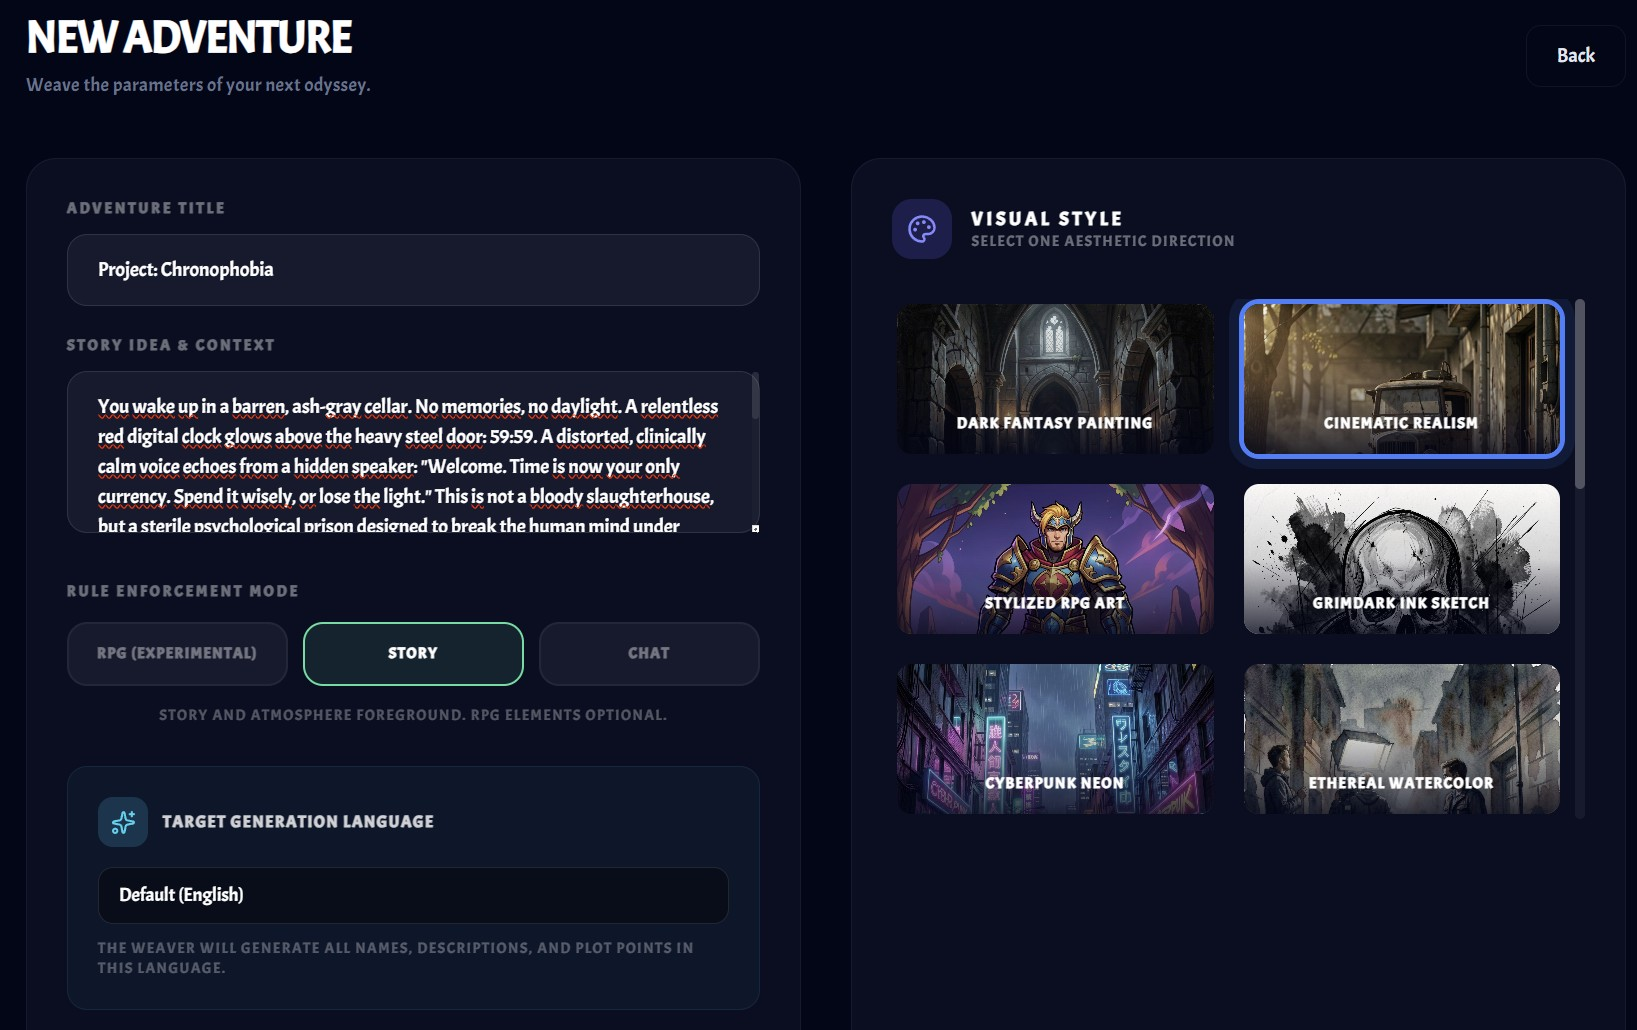
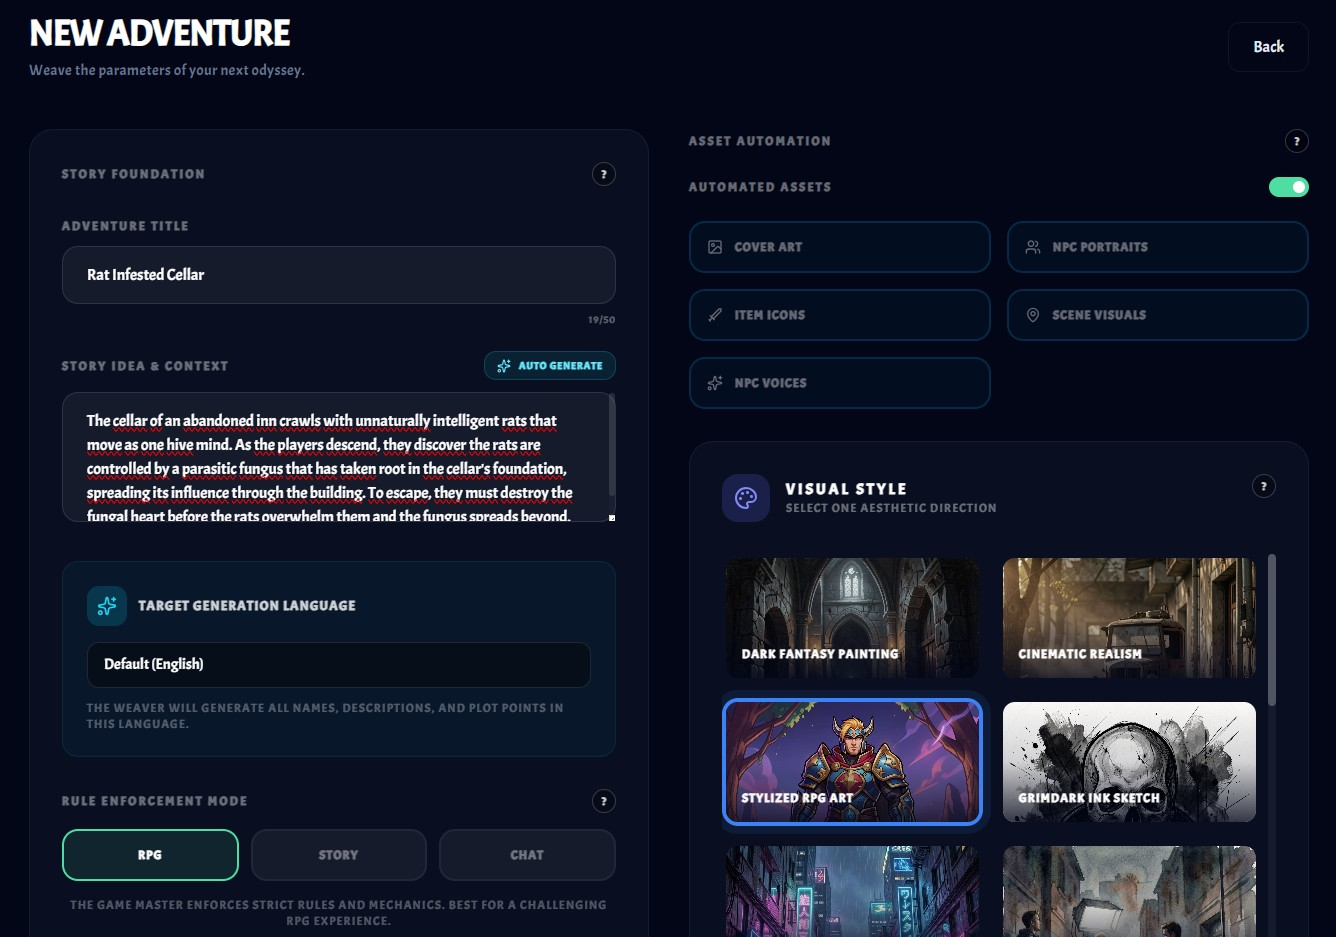
Add loot dialog screenshot to documentation

diff --git a/backend/api/routes/config_api.py b/backend/api/routes/config_api.py
@@ -39,7 +39,12 @@ from backend.core.tts_voices import GOOGLE_TTS_VOICE_CATALOG, GOOGLE_TTS_VOICE_L
 from backend.engine.media_engine import MediaEngine
 from backend.engine.tts_engine import TTSEngine, TTSModelSwitchSuggestionError
 from backend.models.user import User
-from backend.utils.path_security import ensure_within_data_dir, safe_data_path, sanitize_path_component
+from backend.utils.path_security import (
+    ensure_within_base_dir,
+    ensure_within_data_dir,
+    safe_data_path,
+    sanitize_path_component,
+)
 
 router = APIRouter(prefix="/settings", tags=["Settings"])
 print(f"DEBUG: Loading config_api module, router prefix: {router.prefix}")
@@ -49,6 +54,11 @@ DEFAULT_COMPLEX_MAX_TOKENS = 24576
 DEFAULT_GENERATOR_MAX_TOKENS = 32768
 _SAFE_IMAGE_EXTENSIONS = {"png", "jpg", "jpeg", "webp"}
 _ALLOWED_CATALOG_TYPES = {"styles", "tones"}
+_CATALOG_EXT_BY_CONTENT_TYPE = {
+    "image/png": "png",
+    "image/jpeg": "jpg",
+    "image/webp": "webp",
+}
 
 
 async def _resolve_global_settings_owner(db: AsyncSession, fallback_user: User) -> User:
@@ -116,6 +126,11 @@ def _sanitize_image_extension(filename: Optional[str]) -> str:
         return "png"
     ext = filename.rsplit(".", 1)[-1].strip().lower()
     return ext if ext in _SAFE_IMAGE_EXTENSIONS else "png"
+
+
+def _extension_from_content_type(content_type: Optional[str]) -> str:
+    """Resolve a safe image extension from content type with png fallback."""
+    return _CATALOG_EXT_BY_CONTENT_TYPE.get((content_type or "").strip().lower(), "png")
 
 
 def _route_error_response(operation: str, message: str, exc: Exception) -> dict[str, str]:
@@ -1173,9 +1188,12 @@ async def upload_catalog_image(
     _ = db
     _ = current_user
     try:
-        filepath = _build_catalog_upload_path(catalog_type, target_id, file.filename)
+        safe_ext = _extension_from_content_type(file.content_type)
+        filepath = _build_catalog_upload_path(catalog_type, target_id, f"upload.{safe_ext}")
 
         safe_filepath = _ensure_within_data_dir(filepath)
+        safe_parent_dir = _ensure_within_data_dir(os.path.dirname(safe_filepath))
+        safe_filepath = ensure_within_base_dir(safe_filepath, safe_parent_dir)
         with open(safe_filepath, "wb") as f:
             f.write(await file.read())
 

diff --git a/backend/api/routes/adventures/gameplay.py b/backend/api/routes/adventures/gameplay.py
@@ -155,18 +155,26 @@ async def post_chat_message(
                     f"data: {json.dumps({'detail': 'Unable to process this turn.'})}\n\n"
                 )
 
+        try:
+            turn_stream = manager.process_turn(
+                payload.content,
+                auto_visualize=payload.auto_visualize,
+                language=payload.language,
+            )
+        except Exception:
+            logger.exception("Failed to initialize chat stream for session %s", game_id)
+            raise HTTPException(status_code=500, detail="Unable to process this turn.")
+
         return StreamingResponse(
-            _stream_with_turn_id(
-                manager.process_turn(payload.content, auto_visualize=payload.auto_visualize, language=payload.language)
-            ),
+            _stream_with_turn_id(turn_stream),
             media_type="text/event-stream",
             headers={"X-Taleweaver-Turn-Id": turn_id},
         )
     except HTTPException:
         raise
-    except Exception as exc:
+    except Exception:
         logger.exception("Failed to start chat turn for session %s", game_id)
-        raise HTTPException(status_code=500, detail="Unable to process this turn.") from exc
+        raise HTTPException(status_code=500, detail="Unable to process this turn.")
 
 
 @router.post("/{game_id}/agent/turn")

diff --git a/backend/engine/media_engine.py b/backend/engine/media_engine.py
@@ -28,8 +28,10 @@ from backend.utils.image_generator import (
     PlaceholderImageGenerator,
 )
 from backend.utils.path_security import (
+    ensure_within_base_dir,
     ensure_within_data_dir as ensure_within_data_dir_shared,
     local_path_to_data_url,
+    sanitize_relative_segment,
     sanitize_path_component as sanitize_path_component_shared,
 )
 from backend.utils.svg_generator import SVGPlaceholderGenerator
@@ -158,6 +160,10 @@ def _write_binary_file(filepath: str, payload: bytes) -> None:
     if not parent_dir:
         raise ValueError("Invalid filepath: missing parent directory.")
     safe_parent_dir = _ensure_within_data_dir(parent_dir)
+    safe_filename = sanitize_relative_segment(os.path.basename(safe_filepath))
+    if not safe_filename:
+        raise ValueError("Invalid filepath: invalid filename.")
+    safe_filepath = ensure_within_base_dir(os.path.join(safe_parent_dir, safe_filename), safe_parent_dir)
     os.makedirs(safe_parent_dir, exist_ok=True)
     with open(safe_filepath, "wb") as file_handle:
         file_handle.write(payload)
@@ -263,8 +269,13 @@ class MediaEngine:
         """Creates a thumbnail for the given image file if it doesn't exist."""
         try:
             safe_filepath = _ensure_within_data_dir(filepath)
-            base, ext = os.path.splitext(safe_filepath)
-            thumb_path = _ensure_within_data_dir(f"{base}_thumb{ext}")
+            source_stem, ext = os.path.splitext(os.path.basename(safe_filepath))
+            safe_thumb_name = sanitize_relative_segment(f"{source_stem}_thumb{ext}")
+            if not safe_thumb_name:
+                raise ValueError("Invalid thumbnail filename.")
+            thumb_path = _ensure_within_data_dir(
+                os.path.join(os.path.dirname(safe_filepath), safe_thumb_name)
+            )
             
             # Avoid re-generating if it already exists
             if os.path.exists(thumb_path):

diff --git a/backend/api/routes/adventures/assets.py b/backend/api/routes/adventures/assets.py
@@ -20,7 +20,12 @@ from backend.core.style_catalog import resolve_style_instruction, resolve_tone_i
 from backend.engine.media_engine import MediaEngine
 from backend.models.adventure_template import AdventureTemplate
 from backend.models.user import User
-from backend.utils.path_security import ensure_within_data_dir, safe_data_path, sanitize_path_component
+from backend.utils.path_security import (
+    ensure_within_base_dir,
+    ensure_within_data_dir,
+    safe_data_path,
+    sanitize_path_component,
+)
 from typing import Any
 from io import BytesIO
 from PIL import Image
@@ -133,14 +138,15 @@ def _build_uploaded_visual_path(
         storage_path = base_storage_path
         filename = f"cover_{uuid.uuid4().hex}.{safe_file_ext}"
     else:
-        storage_path = ensure_within_data_dir(os.path.join(base_storage_path, safe_target_type))
+        storage_path = safe_data_path("adventures", "library", safe_template_id, "visuals", safe_target_type)
         safe_token = _sanitize_filename_token(trusted_target_token)
         filename_prefix = safe_token or safe_target_type
         filename = f"{filename_prefix}_{uuid.uuid4().hex}.{safe_file_ext}"
 
     safe_storage_path = ensure_within_data_dir(storage_path)
     os.makedirs(safe_storage_path, exist_ok=True)
-    return ensure_within_data_dir(os.path.join(safe_storage_path, filename))
+    candidate_path = ensure_within_data_dir(os.path.join(safe_storage_path, filename))
+    return ensure_within_base_dir(candidate_path, safe_storage_path)
 
 class RegenerateVisualRequest(BaseModel):
     target_type: Literal["cover", "scene", "npc", "object", "protagonist"]
@@ -449,6 +455,8 @@ async def upload_visual(
             _extension_from_content_type(file.content_type),
             trusted_target_token=trusted_target_token,
         )
+        safe_parent_dir = ensure_within_data_dir(os.path.dirname(full_path))
+        full_path = ensure_within_base_dir(full_path, safe_parent_dir)
         with open(full_path, "wb") as f:
             f.write(content)
 

diff --git a/backend/engine/world_generator.py b/backend/engine/world_generator.py
@@ -21,8 +21,10 @@ from backend.models.user import User
 from backend.models.world_entity import WorldEntity, WorldExit, WorldScene
 from backend.utils.path_security import (
     data_url_to_local_path,
+    ensure_within_base_dir,
     ensure_within_data_dir,
     local_path_to_data_url,
+    sanitize_relative_segment,
 )
 from backend.utils.text_utils import slugify
 
@@ -957,6 +959,9 @@ class WorldGenerator:
 
             safe_prefix = slugify(str(source_asset_id or entity_type)) or "source"
             source_basename = os.path.basename(safe_source_local)
+            safe_source_basename = sanitize_relative_segment(source_basename)
+            if not safe_source_basename:
+                return None
             try:
                 target_dir = ensure_within_data_dir(
                     os.path.join(target_root, "visuals", "reused", str(entity_type))
@@ -968,8 +973,13 @@ class WorldGenerator:
             os.makedirs(safe_target_dir, exist_ok=True)
             try:
                 target_local = ensure_within_data_dir(
-                    os.path.join(safe_target_dir, f"{safe_prefix}_{source_basename}")
+                    os.path.join(safe_target_dir, f"{safe_prefix}_{safe_source_basename}")
                 )
+            except ValueError:
+                return None
+
+            try:
+                target_local = ensure_within_base_dir(target_local, safe_target_dir)
             except ValueError:
                 return None
 

diff --git a/backend/utils/svg_generator.py b/backend/utils/svg_generator.py
@@ -4,7 +4,7 @@ import os
 import random
 import re
 
-from backend.utils.path_security import ensure_within_data_dir
+from backend.utils.path_security import ensure_within_base_dir, ensure_within_data_dir
 
 
 class SVGPlaceholderGenerator:
@@ -208,7 +208,8 @@ class SVGPlaceholderGenerator:
         if not parent_dir:
             raise ValueError("Invalid filepath: missing parent directory.")
         safe_parent_dir = ensure_within_data_dir(parent_dir)
+        safe_resolved_path = ensure_within_base_dir(resolved_path, safe_parent_dir)
         os.makedirs(safe_parent_dir, exist_ok=True)
-        with open(resolved_path, 'w', encoding='utf-8') as f:
+        with open(safe_resolved_path, 'w', encoding='utf-8') as f:
             f.write(self.generate(title, category))
 

diff --git a/README.md b/README.md
@@ -25,44 +25,26 @@
   <br><em><b>Adventure Portal</b> - Manage your stories and explore new worlds.</em>
 </p>
 
-<p align="center">
-  <a href="docs/screenshots/generator.jpg"><img src="docs/screenshots/generator.jpg" width="600" alt="World Generator"></a>
-  <br><em><b>World Generator</b> - AI-driven world building and story generation.</em>
-</p>
 
-<p align="center">
-  <a href="docs/screenshots/gameplay.jpg"><img src="docs/screenshots/gameplay.jpg" width="600" alt="Gamesession"></a>
-  <br><em><b>In-Game</b> - Immersive text adventure gameplay with dynamic AI interaction.</em>
-</p>
-
-<p align="center">
-  <a href="docs/screenshots/combat-dialog.jpg"><img src="docs/screenshots/combat-dialog.jpg" width="600" alt="Combat Dialog"></a>
-  <br><em><b>Combat Dialog</b> - Tactical combat interface with action choices and integrated loot resolution.</em>
-</p>
-
-### Mini Gallery Example (3x3)
-
-<p align="center">
-  Placeholder grid for GitHub README. Replace each `src` path with your final screenshots.
-</p>
+### Full Screenshot Gallery
 
 <table align="center">
   <tr>
-    <td><a href="docs/screenshots/library.jpg"><img src="docs/screenshots/library.jpg" width="140" alt="Gallery Tile 01"></a></td>
-    <td><a href="docs/screenshots/library.jpg"><img src="docs/screenshots/library.jpg" width="140" alt="Gallery Tile 02"></a></td>
-    <td><a href="docs/screenshots/library.jpg"><img src="docs/screenshots/library.jpg" width="140" alt="Gallery Tile 03"></a></td>
+    <td><a href="docs/screenshots/library.jpg"><img src="docs/screenshots/small/library.jpg" width="180" alt="Adventure Library"></a></td>
+    <td><a href="docs/screenshots/generator.jpg"><img src="docs/screenshots/small/generator.jpg" width="180" alt="World Generator"></a></td>
+    <td><a href="docs/screenshots/gameplay.jpg"><img src="docs/screenshots/small/gameplay.jpg" width="180" alt="Gameplay"></a></td>
+    <td><a href="docs/screenshots/combat-dialog.jpg"><img src="docs/screenshots/small/combat-dialog.jpg" width="180" alt="Combat Dialog"></a></td>
   </tr>
   <tr>
-    <td><a href="docs/screenshots/library.jpg"><img src="docs/screenshots/library.jpg" width="140" alt="Gallery Tile 07"></a></td>
-    <td><a href="docs/screenshots/library.jpg"><img src="docs/screenshots/library.jpg" width="140" alt="Gallery Tile 08"></a></td>
-    <td><a href="docs/screenshots/library.jpg"><img src="docs/screenshots/library.jpg" width="140" alt="Gallery Tile 09"></a></td>
+    <td><a href="docs/screenshots/loot-dialog.jpg"><img src="docs/screenshots/small/loot-dialog.jpg" width="180" alt="Loot Dialog"></a></td>
+    <td><a href="docs/screenshots/editor-scenes.jpg"><img src="docs/screenshots/small/editor-scenes.jpg" width="180" alt="Editor Scenes"></a></td>
+    <td><a href="docs/screenshots/editor-npcs.jpg"><img src="docs/screenshots/small/editor-npcs.jpg" width="180" alt="Editor NPCs"></a></td>
+    <td><a href="docs/screenshots/editor-items.jpg"><img src="docs/screenshots/small/editor-items.jpg" width="180" alt="Editor Items"></a></td>
   </tr>
   <tr>
-    <td><a href="docs/screenshots/library.jpg"><img src="docs/screenshots/library.jpg" width="140" alt="Gallery Tile 13"></a></td>
-    <td><a href="docs/screenshots/library.jpg"><img src="docs/screenshots/library.jpg" width="140" alt="Gallery Tile 14"></a></td>
-    <td><a href="docs/screenshots/library.jpg"><img src="docs/screenshots/library.jpg" width="140" alt="Gallery Tile 15"></a></td>
+    <td><a href="docs/screenshots/editor-map.jpg"><img src="docs/screenshots/small/editor-map.jpg" width="180" alt="Editor Map"></a></td>
+    <td><a href="docs/screenshots/character-sheet.jpg"><img src="docs/screenshots/small/character-sheet.jpg" width="180" alt="Character Sheet"></a></td>
   </tr>
-  
 </table>
 
 ## 1. The Vision